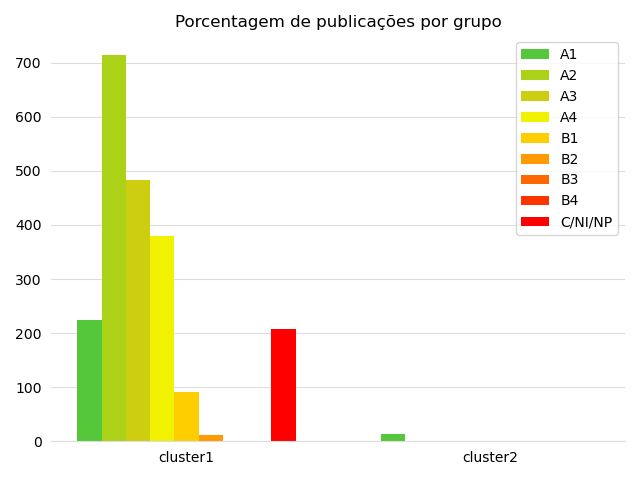
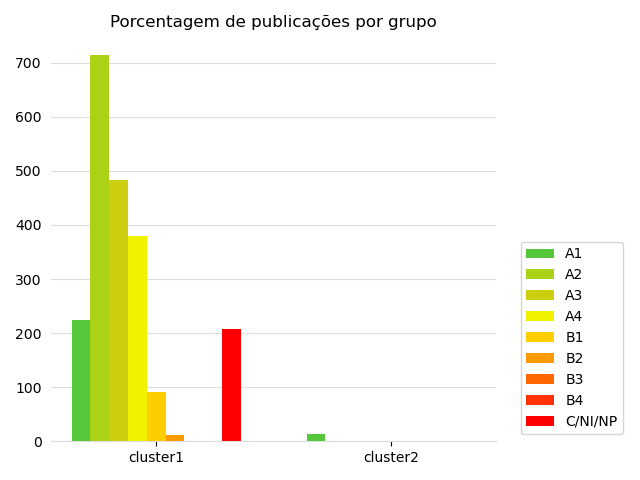
Modificações na apresentação dos gráficos

diff --git a/summarizer/src/summarizer.py b/summarizer/src/summarizer.py
@@ -101,44 +101,59 @@ def make_values_dict_from_keys(dictionary, keys):
 
     return values_dict
 
-
-def plot_program(dict_src, program_code_list_str, cluster, image_name=None):
-    program_code_list = string_to_list(program_code_list_str, separator="-")
-    subdict = {key: value for key, value in dict_from_json(
-        dict_src)[cluster].items() if key in program_code_list}
-    count_dict = make_values_dict_from_keys(subdict, ["A1", "A2", "A3", "A4", "B1", "B2", "B3", "B4", "C/NI/NP"])
-
+def plot(subdict, program_code_list, count_dict, title, image_name, template="program", comparing=False):
+    if template == "program":
+        bar_width = 0.08
+        colors = ["#54c73a", "#abd216", "#ccce0f", "#f0f200",
+                  "#ffce00", "#ff9a00", "#ff6700", "#ff3300", "#ff0000"]
+        tick_translate = 4
+    elif template == "compare":
+        bar_width = 0.15
+        colors = ["#d6af36", "#a7a7ad", "#a77044"]
+        tick_translate = 1
+    
     fig, ax = plt.subplots()
     x = np.arange(len(program_code_list))
-    bar_width = 0.08
     multiplier = 0
-    colors = ["#54c73a", "#abd216", "#ccce0f", "#f0f200",
-              "#ffce00", "#ff9a00", "#ff6700", "#ff3300", "#ff0000"]
 
-    for qualis in count_dict:
-        ax.bar(x + bar_width * multiplier, count_dict[qualis], width=bar_width, label=qualis,
+    for key in count_dict:
+        ax.bar(x + bar_width * multiplier, count_dict[key], width=bar_width, label=key,
                color=colors[multiplier])
         multiplier += 1
 
-    ax.set_xticks(x + 4 * bar_width)
+    ax.set_xticks(x + tick_translate * bar_width)
     ax.set_xticklabels(program_code_list)
-    ax.legend()
+    ax.legend(bbox_to_anchor=(1.04,0), loc="lower left")
 
     ax.spines['top'].set_visible(False)
     ax.spines['right'].set_visible(False)
     ax.spines['left'].set_visible(False)
     ax.spines['bottom'].set_color('#DDDDDD')
-    ax.tick_params(bottom=False, left=False)
+    ax.tick_params(left=False)
     ax.set_axisbelow(True)
     ax.yaxis.grid(True, color='#DDDDDD')
-    ax.set_title('Produções por programa')
+    ax.set_title(title)
 
+    if len(subdict) > 3:
+        fig.autofmt_xdate()
     fig.tight_layout()
+
+    if comparing:
+        plt.gca().get_xticklabels()[-1].set_color('red') 
+
+    fig.savefig(image_name)
+
+def plot_program(dict_src, program_code_list_str, cluster, image_name=None, comparing=False):
+    program_code_list = string_to_list(program_code_list_str, separator="-")
+    subdict = {key: value for key, value in dict_from_json(
+        dict_src)[cluster].items() if key in program_code_list}
+    count_dict = make_values_dict_from_keys(subdict, ["A1", "A2", "A3", "A4", "B1", "B2", "B3", "B4", "C/NI/NP"])
 
     if image_name is None:
         image_name = "../results/" + file_name_from_path(
             dict_src) + "_" + program_code_list_str + ".png"
-    fig.savefig(image_name)
+
+    plot(subdict, program_code_list, count_dict, "Produções por programa", image_name=image_name, comparing=comparing)
 
 def plot_n_best(dict_src, n_str, cluster, compare_to=None, image_name=None):
     n = int(n_str)
@@ -154,13 +169,15 @@ def plot_n_best(dict_src, n_str, cluster, compare_to=None, image_name=None):
         else:
             program_code_list_str += program 
             if compare_to is not None:
+                comparing = True
                 program_code_list_str += '-' + compare_to + ']'
             else:
+                comparing = False
                 program_code_list_str += ']'
 
         count += 1
 
-    plot_program(dict_src, program_code_list_str, cluster, image_name)
+    plot_program(dict_src, program_code_list_str, cluster, image_name=image_name, comparing=comparing)
 
 def plot_compare(dict_src, program_code_list_str, cluster, image_name=None):
     program_code_list = string_to_list(program_code_list_str, separator="-")
@@ -168,75 +185,24 @@ def plot_compare(dict_src, program_code_list_str, cluster, image_name=None):
         dict_src)[cluster].items() if key in program_code_list}
     count_dict = make_values_dict_from_keys(subdict, ["A1/A2/A3/A4", "B1/B2/B3/B4", "C/NI/NP"])
 
-    fig, ax = plt.subplots()
-    x = np.arange(len(program_code_list))
-    bar_width = 0.15
-    multiplier = 0
-    colors = ["#d6af36", "#a7a7ad", "#a77044"]
-
-    for rank in count_dict:
-        ax.bar(x + bar_width * multiplier, count_dict[rank], width=bar_width, label=rank,
-               color=colors[multiplier])
-        multiplier += 1
-
-    ax.set_xticks(x + bar_width)
-    ax.set_xticklabels(program_code_list)
-    ax.legend()
-
-    ax.spines['top'].set_visible(False)
-    ax.spines['right'].set_visible(False)
-    ax.spines['left'].set_visible(False)
-    ax.spines['bottom'].set_color('#DDDDDD')
-    ax.tick_params(bottom=False, left=False)
-    ax.set_axisbelow(True)
-    ax.yaxis.grid(True, color='#DDDDDD')
-    ax.set_title('Comparação entre programas')
-
-    fig.tight_layout()
-
     if image_name is None:
         image_name = "../results/" + file_name_from_path(
             dict_src) + "_" + program_code_list_str + "_compare_" + ".png"
-    fig.savefig(image_name)
+    
+    plot(subdict, program_code_list, count_dict, "Comparação entre programas", image_name=image_name, template="compare")
 
 def plot_program_cluster(dict_src, program, image_name=None):
     dictionary = dict_from_json(dict_src)
     subdict = {key: dictionary[key][program] for key in dictionary if program in dictionary[key]}
     count_dict = make_values_dict_from_keys(subdict, ["A1", "A2", "A3", "A4", "B1", "B2", "B3", "B4", "C/NI/NP"])
 
-    fig, ax = plt.subplots()
-    x = np.arange(len(subdict))
-    bar_width = 0.08
-    multiplier = 0
-    colors = ["#54c73a", "#abd216", "#ccce0f", "#f0f200",
-              "#ffce00", "#ff9a00", "#ff6700", "#ff3300", "#ff0000"]
-
-    for qualis in count_dict:
-        ax.bar(x + bar_width * multiplier, count_dict[qualis], width=bar_width, label=qualis,
-               color=colors[multiplier])
-        multiplier += 1
-
-    ax.set_xticks(x + 4 * bar_width)
-    ax.set_xticklabels(subdict.keys())
-    ax.legend()
-
-    ax.spines['top'].set_visible(False)
-    ax.spines['right'].set_visible(False)
-    ax.spines['left'].set_visible(False)
-    ax.spines['bottom'].set_color('#DDDDDD')
-    ax.tick_params(bottom=False, left=False)
-    ax.set_axisbelow(True)
-    ax.yaxis.grid(True, color='#DDDDDD')
-    ax.set_title('Porcentagem de publicações por grupo')
-
-    fig.tight_layout()
-
     if image_name is None:
         image_name = "../results/" + file_name_from_path(
             dict_src) + "_" + program + '_' + ".png"
-    fig.savefig(image_name)
+
+    plot(subdict, subdict.keys(), count_dict, "Porcentagem de publicações por grupo", image_name=image_name)
 
 #make_dict("../datasets/Particao_k3_c1.csv")
-#plot_n_best("../results/Particao_k3_c1.json", 3, "cluster1", "23001011030P1")
-#plot_compare("../results/Particao_k3_c1.json", "[23001011010P0-23001011031P8-23001011020P6]", "cluster1")
+plot_n_best("../results/Particao_k3_c1.json", 3, "cluster1", "23001011030P1")
+plot_compare("../results/Particao_k3_c1.json", "[23001011010P0-23001011031P8-23001011020P6]", "cluster1")
 plot_program_cluster("../results/Particao_k3_c1.json", "23001011010P0")
